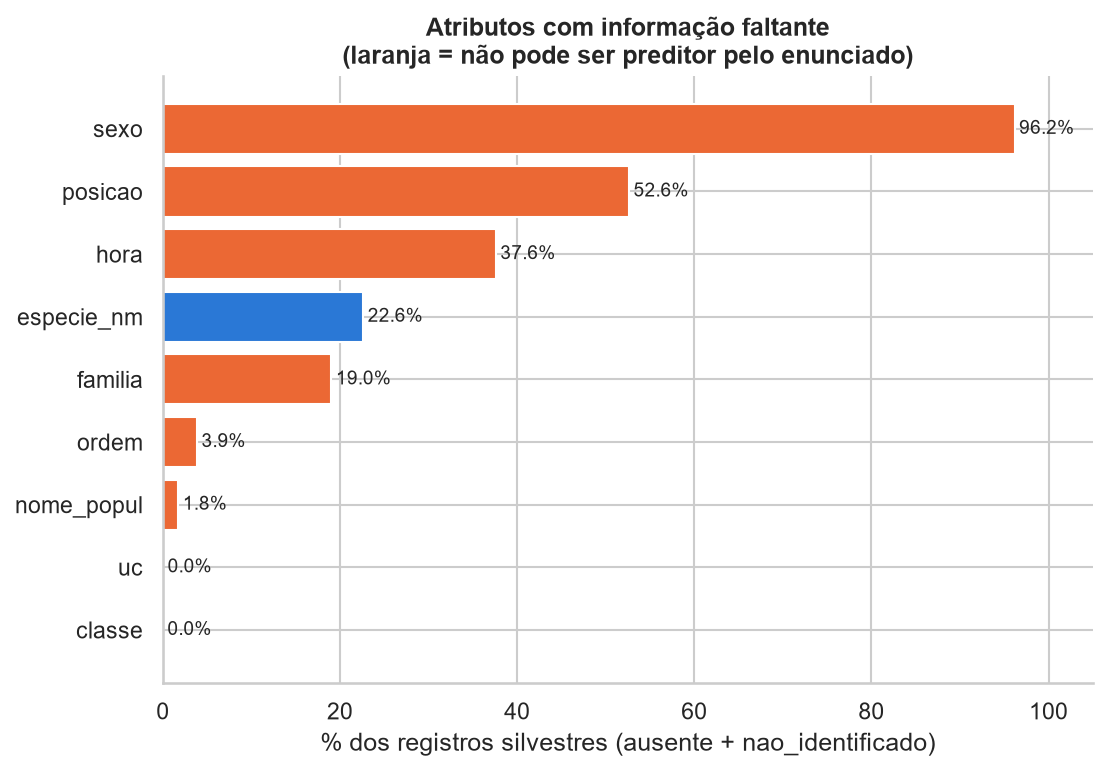
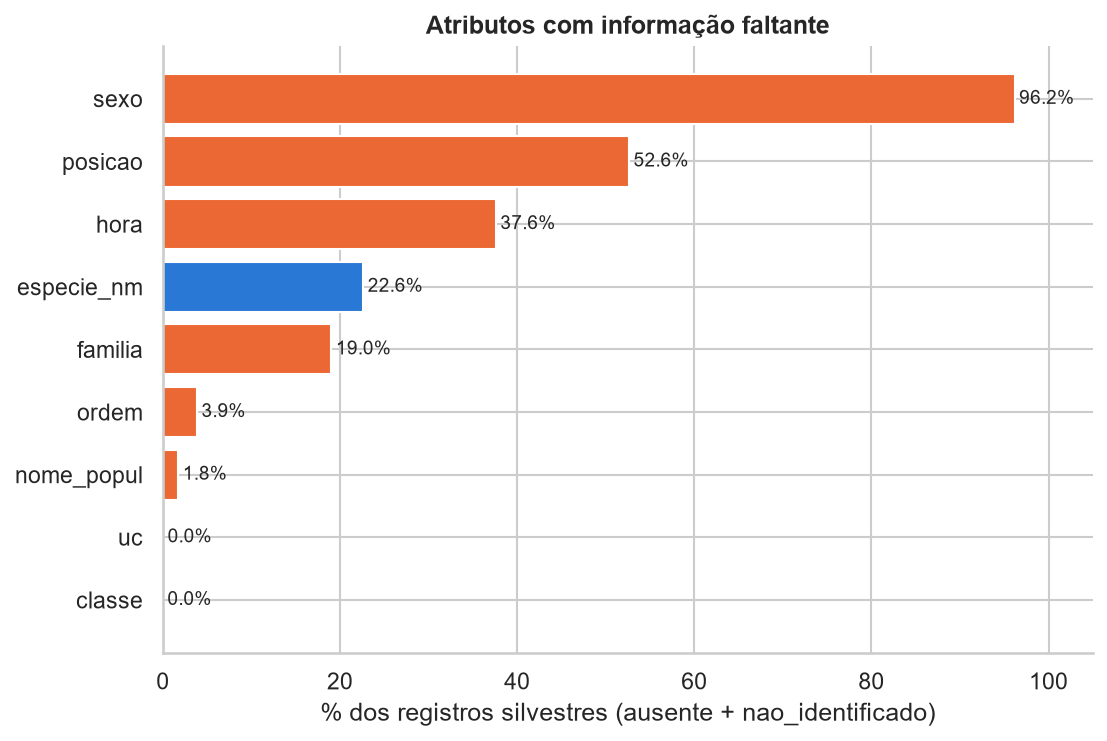
update

diff --git a/etapa1_eda.py b/etapa1_eda.py
@@ -321,7 +321,7 @@ for posicao, percentual in enumerate(tabela_de_ausentes["percentual_sem_informac
     eixo.text(percentual + 0.5, posicao, f"{percentual:.1f}%", va="center", fontsize=9)  # rótulo no fim da barra
 eixo.set_xlim(0, 105)  # eixo x de 0% a 105% (folga para o rótulo)
 eixo.set_xlabel("% dos registros silvestres (ausente + nao_identificado)")
-eixo.set_title("Atributos com informação faltante\n(laranja = não pode ser preditor pelo enunciado)")
+eixo.set_title("Atributos com informação faltante")
 salvar_figura(figura, "fig01_ausentes.png")
 
 # Registra como problema todo atributo com 30% ou mais de informação faltante

diff --git a/resultados_etapa1/resultados_etapa1.md b/resultados_etapa1/resultados_etapa1.md
@@ -56,7 +56,7 @@ Datas que não puderam ser convertidas: 0
 ## 3. Valores ausentes e 'nao_identificado'
 
 
-|  | ausentes | nao_identificado | %_sem_info |
+|  | ausentes | nao_identificado | percentual_sem_informacao |
 |---|---|---|---|
 | sexo | 0 | 4253 | 96.18 |
 | posicao | 0 | 2328 | 52.65 |
@@ -76,12 +76,12 @@ Datas que não puderam ser convertidas: 0
 ## 4. Estatísticas descritivas e outliers
 
 
-|  | n | média | desvio | mín | 25% | mediana | 75% | máx |
+|  | quantidade | média | desvio_padrão | mínimo | 1º_quartil | mediana | 3º_quartil | máximo |
 |---|---|---|---|---|---|---|---|---|
 | x | 4422 | 199824.18 | 18856.58 | 168694 | 183471.25 | 197849 | 217625.25 | 228478 |
 | y | 4422 | 8261912.75 | 17371.29 | 8230610 | 8241139 | 8271545.5 | 8274590.75 | 8282622 |
 | ano | 4422 | 2012.29 | 1.39 | 2010 | 2011 | 2012 | 2013 | 2015 |
-| mes_num | 4422 | 5.92 | 4.01 | 1 | 2 | 5 | 10 | 12 |
+| numero_do_mes | 4422 | 5.92 | 4.01 | 1 | 2 | 5 | 10 | 12 |
 | dia_do_ano | 4422 | 164.9 | 122.44 | 2 | 52 | 125 | 297 | 364 |
 
 
@@ -100,7 +100,7 @@ Outliers em x e y (critério de Tukey: fora de [Q1 - 1,5*IQR, Q3 + 1,5*IQR]):
 ### 5.1 Classificação multiclasse -> alvo: 'classe'
 
 
-| classe | registros | % |
+| classe | registros | percentual |
 |---|---|---|
 | birds | 3009 | 68.05 |
 | reptiles | 690 | 15.6 |
@@ -132,7 +132,7 @@ Espécies distintas: 179 | registros sem espécie identificada: 1001
 Classificação binária -> alvo: hotspot (1/0) por célula de 500 m  
 Regressão -> alvo: nº de atropelamentos por célula de 500 m por mês  
 Células de 500 m com pelo menos 1 atropelamento: 293  
-Atropelamentos por célula: média = 15.1, mediana = 10.0, máximo = 96.0  
+Atropelamentos por célula: média = 15.1, mediana = 10.0, máximo = 96  
 Painel célula x mês: 293 células x 60 meses = 17580 observações, 83% delas com zero atropelamentos  
 Obs.: a base só tem ocorrências; a classe 0 (sem/baixo risco) do problema binário  
 - precisa ser construída na Etapa 2 e justificada.
@@ -250,25 +250,25 @@ Células de 500 m com uma única uc: 93.5% -> uc é quase redundante com (x, y).
 
 Correlação de Spearman (numéricas):  
 
-|  | x | y | ano | mes_num | dia_do_ano | dia_semana_num |
+|  | x | y | ano | numero_do_mes | dia_do_ano | numero_do_dia_da_semana |
 |---|---|---|---|---|---|---|
 | x | 1 | 0.65 | -0.05 | 0.06 | 0.06 | 0.03 |
 | y | 0.65 | 1 | 0.01 | 0 | 0 | 0.03 |
 | ano | -0.05 | 0.01 | 1 | -0.2 | -0.2 | 0 |
-| mes_num | 0.06 | 0 | -0.2 | 1 | 0.99 | 0.01 |
+| numero_do_mes | 0.06 | 0 | -0.2 | 1 | 0.99 | 0.01 |
 | dia_do_ano | 0.06 | 0 | -0.2 | 0.99 | 1 | 0.01 |
-| dia_semana_num | 0.03 | 0.03 | 0 | 0.01 | 0.01 | 1 |
+| numero_do_dia_da_semana | 0.03 | 0.03 | 0 | 0.01 | 0.01 | 1 |
 
 
 V de Cramér (categóricas):  
 
-|  | classe | uc | periodo_climatico | ano | mes_num |
+|  | classe | uc | periodo_climatico | ano | numero_do_mes |
 |---|---|---|---|---|---|
 | classe | 1 | 0.12 | 0.16 | 0.06 | 0.19 |
 | uc | 0.12 | 1 | 0.04 | 0.06 | 0.11 |
 | periodo_climatico | 0.16 | 0.04 | 1 | 0.18 | 1 |
 | ano | 0.06 | 0.06 | 0.18 | 1 | 0.2 |
-| mes_num | 0.19 | 0.11 | 1 | 0.2 | 1 |
+| numero_do_mes | 0.19 | 0.11 | 1 | 0.2 | 1 |
 
 
 ![Figura 10 - Correlação (Spearman) e associação (V de Cramér)](fig10_correlacoes.png)
@@ -287,4 +287,4 @@ V de Cramér (categóricas):
 8. Alvo de regressão célula x mês tem 83% de zeros (muitos zeros; avaliar agregação maior, ex.: trimestre).  
 9. Nenhum registro em sábado/domingo: as coletas só ocorreram em dias úteis, então 'dia_da_sem' reflete a agenda de coleta, não o risco.  
 10. 'dia_da_sem' diverge da data em 35 registros (erro de digitação) - derivar o dia da semana de data_dt.  
-11. Pares fortemente associados (>= 0,7): mes_num x dia_do_ano (0.99); periodo_climatico x mes_num (1.00) -> manter só um de cada par.  
+11. Pares fortemente associados (>= 0,7): numero_do_mes x dia_do_ano (0.99); periodo_climatico x numero_do_mes (1.00) -> manter só um de cada par.  
